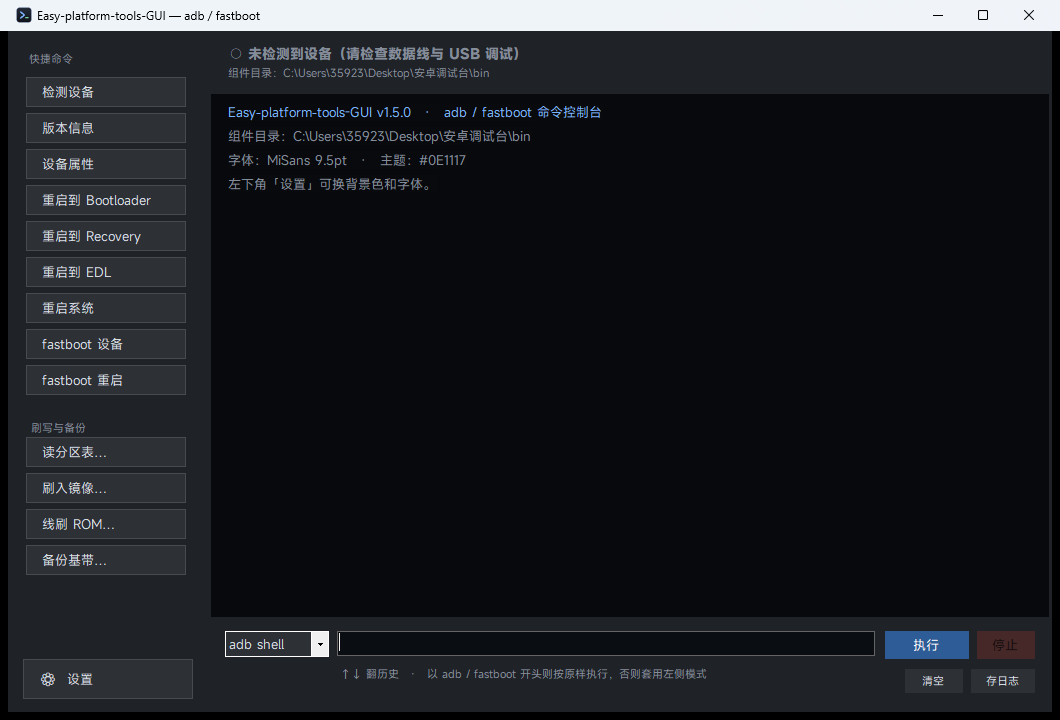
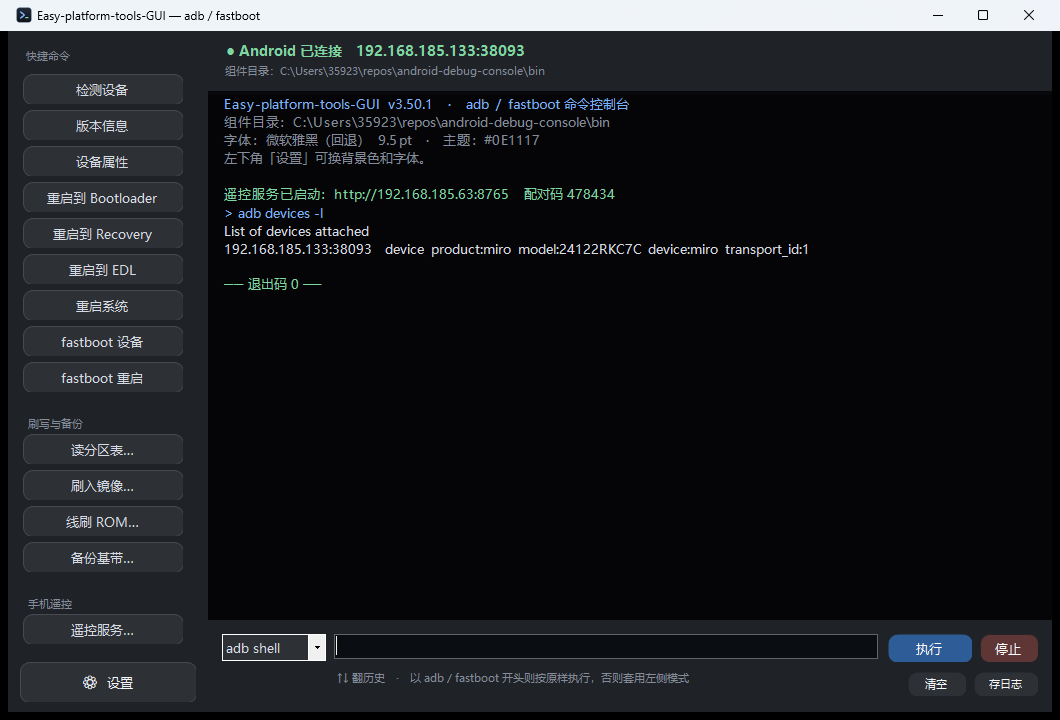
docs: ?????? 3.50.1 ????,README ????
- ???(Android 3.50.1,????):docs/glass.jpg?docs/settings-glass.png?
  docs/styles.png(??/Material/MIUIX/???? ???)?docs/android-log.png?
  docs/android-parts.png
- Windows ? docs/main.png ???(3.50.1,adb ????)
- src/shot.ps1 ????? AndroidTool.exe,?? Easy-platform-tools-GUI.exe(??????)
- README ??:?????? Windows ??Android ?????? 3.50.1 ??? OTG ?? +
  ??????;?????????????????;??????????? Java/View ??

diff --git a/README.md b/README.md
@@ -1,11 +1,23 @@
 # Easy-platform-tools-GUI
 
-Windows 上的 adb / fastboot 图形化命令台。深色界面、、可换背景配色，
-编译出来就是一个 98 KB 的单文件 exe，不需要装 PowerShell 模块、不需要运行库。
+Windows 上的 adb / fastboot 图形化命令台，外加一个能**自己插 OTG 给别人刷机**的 Android 版。
+深色界面、可换背景配色，Windows 端编译出来就是一个 123 KB 的单文件 exe，不需要装 PowerShell 模块、不需要运行库。
 
-![主界面](docs/main.png)
+![Windows 主界面](docs/main.png)
 
-> **Android 版**（`android-compose/`，v3.2.0）：Compose 重写，KernelSU 风格卡片界面 + 悬浮玻璃底栏（实时模糊界面内容）+ 夜间模式 + 四种界面样式（原生 / Material 莫奈取色 / MIUIX / 液态玻璃）。支持 OTG 主机直连 fastboot、本机 root 备份刷写、遥控 PC、线刷 ROM。详见 [RELEASE-NOTES](RELEASE-NOTES.md)。
+> **Android 版**（`android-compose/`，当前 **v3.50.1**）：Compose 重写，四种界面样式（原生 / Material 莫奈取色 / MIUIX / 液态玻璃）。
+>
+> - **OTG 直连**：手机插 OTG 就能对另一台停在 fastboot 的设备执行 `getvar` / `flash` / `erase`，**不用电脑、不用 root**
+> - **大分区分块刷**：`system` / `product` 这类 Android sparse 镜像按块边界重打包，4 GB+ 的分区也能一路刷进去（真机验证过 1410 MB / 118 包、4502 MB / 376 包）
+> - 本机 root 备份刷写、遥控 PC、解析 `flash_all` 脚本线刷
+>
+> 详见 [RELEASE-NOTES](RELEASE-NOTES.md)。
+
+### Android 版长什么样
+
+| 日志放大（液态玻璃） | 分区表（88 个分区，可直接点选带入） |
+|---|---|
+| ![放大日志](docs/android-log.png) | ![分区表](docs/android-parts.png) |
 
 ## 特性
 
@@ -164,6 +176,9 @@ powershell -ExecutionPolicy Bypass -File android\build-apk.ps1
 
 ## 自定义壁纸与透明度
 
+> 以下「壁纸 / 按键边框 / 弹窗」几节写的是**旧版 Android 实现**（`android/`，Java + View，v2.x）的细节，
+> 留着当设计说明看。当前发布的是 `android-compose/` 的 Compose 版，界面见上面的截图。
+
 两端都支持把任意图片设成界面背景，并且按键底板透明度可调。
 
 **桌面版**：设置 → 背景图 → 选择图片…；图片**等比铺满后居中裁切**（不再拉伸变形），
@@ -195,17 +210,17 @@ powershell -ExecutionPolicy Bypass -File android\build-apk.ps1
 
 ![按键边框](docs/border.png)
 
-## 界面样式与底栏（Android 2.7.0）
+## 界面样式与底栏
 
-界面分两页：**主页**（日志 / 快捷按钮 / 命令输入）和**设置**（上面所有开关），用底栏切换。
-设置不再是弹窗，不再盖住主界面；底栏常驻，命令输入框就贴在底栏上方。
+界面是 Compose 写的（`android-compose/`）：主页（日志 / 快捷按钮 / 命令输入）和设置页用底栏切换，
+底栏常驻，命令输入框贴在底栏上方。
 
 | 样式 | 长什么样 | 实现 |
 |---|---|---|
-| **原生** | 10 dp 圆角、半透明底、你选的边框 | `PillDrawable` |
-| **Material** | 24 dp 药丸、底色往主色带、2 dp 投影、按下有水波纹 | `RippleDrawable` + `setElevation` |
-| **MIUIX** | 单列列表：左边标题、右边 `›`、52 dp 行高，设置页也分成卡片 | 自绘 `ChevronDrawable` |
-| **液态玻璃** | 卡片、按钮、底栏都是玻璃：预模糊壁纸 + 透镜边 + 高光 | `GlassDrawable` |
+| **原生** | 深色半透明卡片 + 1 dp 描边，最省 | `Palette.surface` + `clip` |
+| **Material** | 24 dp 药丸、主色，可从壁纸取莫奈色 | M3 `Button` / `Card` + `androidx.palette` |
+| **MIUIX** | 单列列表：左图标、标题、右侧 `›`，设置页也分成卡片 | `miuix-ui-android` |
+| **液态玻璃** | 卡片、按钮、底栏都是玻璃：实时模糊 + 透镜折射 + 高光 | `io.github.kyant0:backdrop`（见 [借鉴声明](THIRD-PARTY.md)） |
 
 ![四种样式](docs/styles.png)
 
